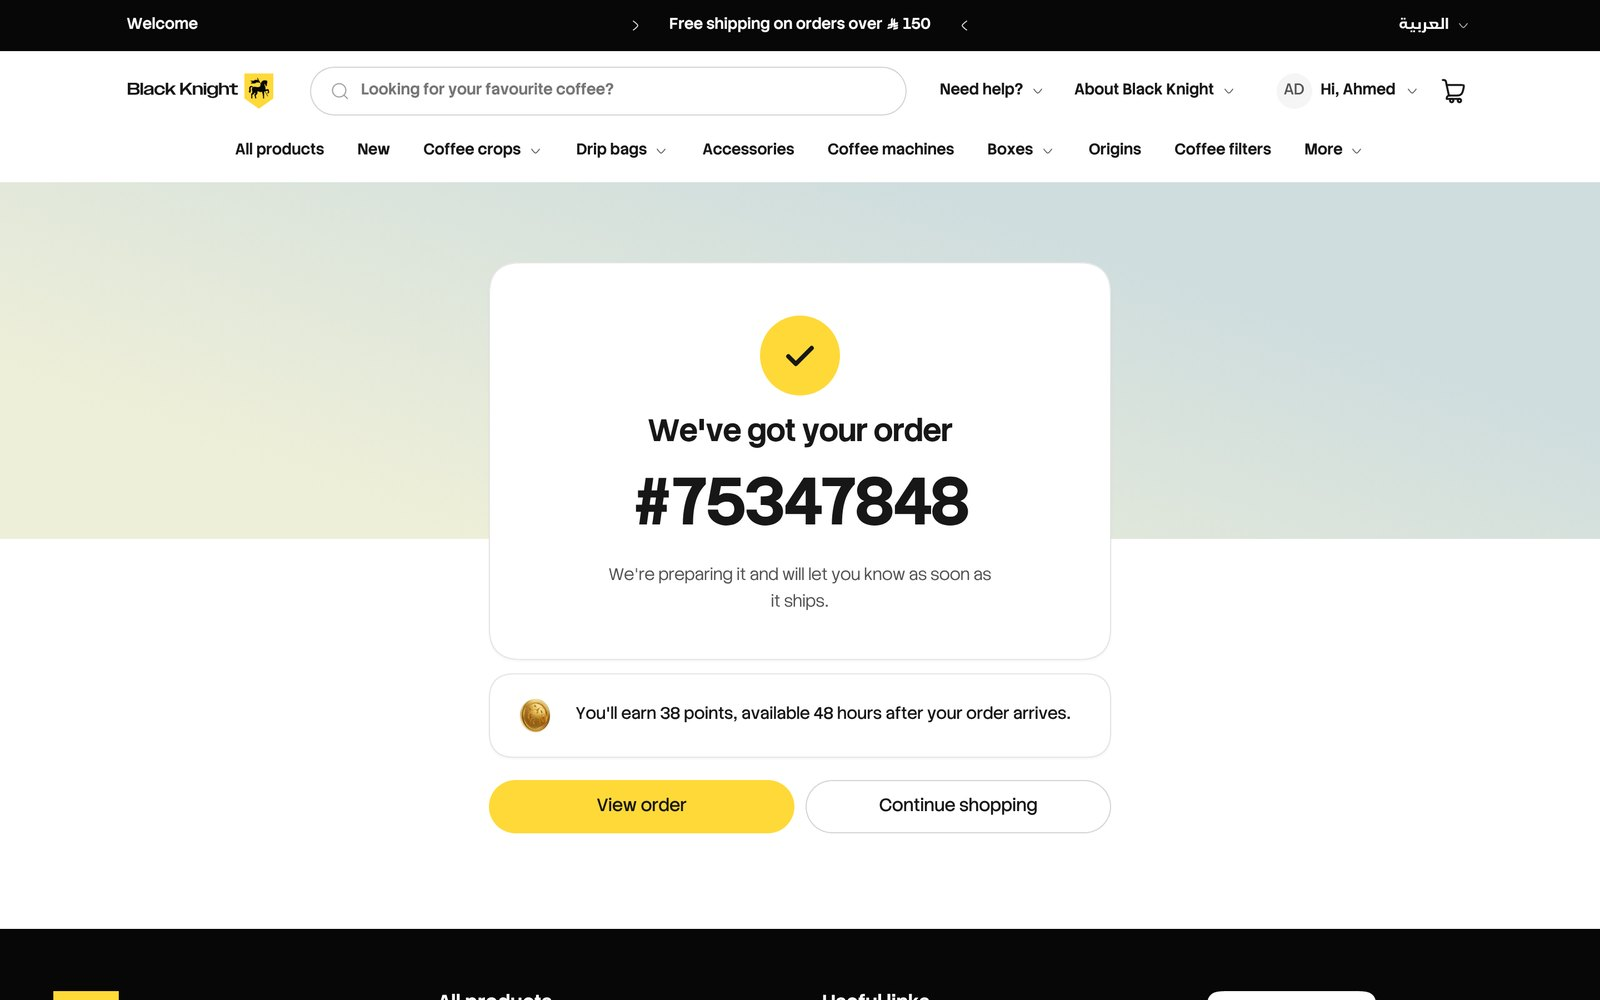
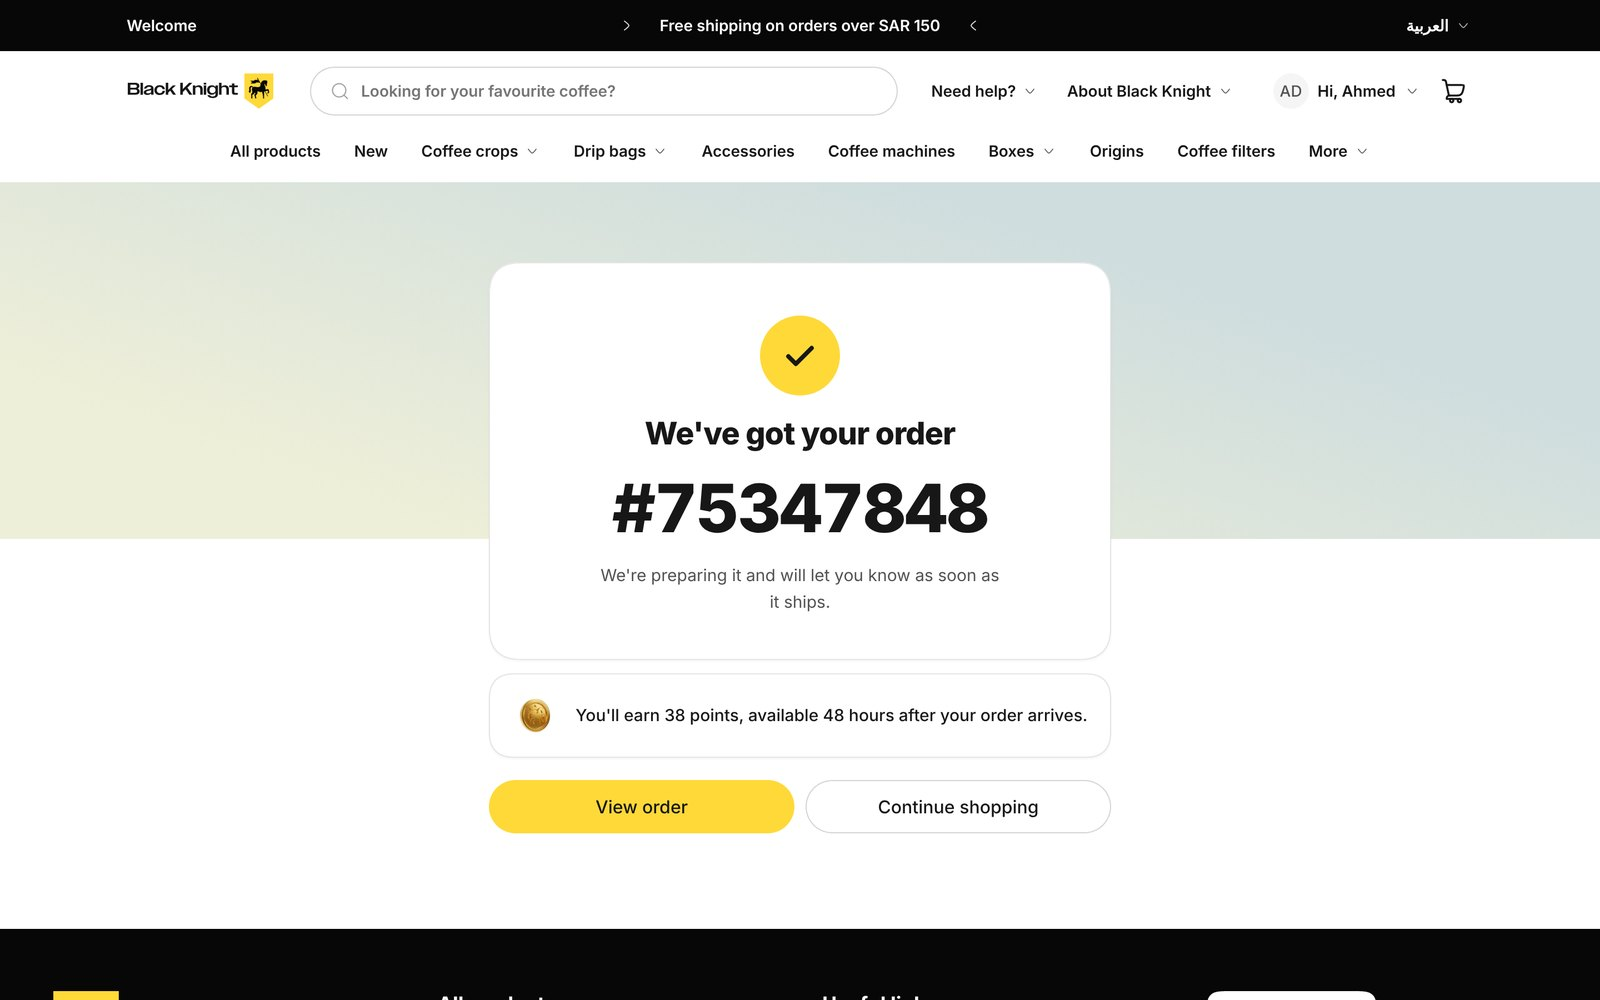
Add Kadr, REKO and the Black Knight console; Inter for English
- Black Knight: storefront screens use Inter in English, icons restored,
  and seven console screens (overview, orders, order, products, product,
  discount codes, reports) translated to English, left to right.
- Kadr: ten screens from the Kadr app flow canvas, web and mobile.
- REKO: ten screens from the REKO design canvas.
- Maknoon: new home screen from the latest Figma file.

Claude-Session: https://claude.ai/code/session_01B5ya1KUbNpwCd5gLMSSR59

diff --git a/works.js b/works.js
@@ -14,7 +14,7 @@ window.WORKS = [
     desc: 'One design language for a specialty coffee storefront, an app and an operations console.',
     platforms: ['web', 'mobile'], web: IMG + 'bn-home.jpg',
     role: 'Product Designer', year: '2026', platform: 'Web, iOS & Android',
-    tools: ['Figma', 'Claude'], tech: ['Design system and tokens', 'Hugeicons', 'React prototypes', 'Arabic and English (RTL and LTR)'],
+    tools: ['Figma', 'Claude'], tech: ['Design system and tokens', 'Hugeicons', 'React prototypes', 'Arabic and English (RTL and LTR)', 'Typeface: BK (Arabic), Inter (English)'],
     overview: 'Black Knight is a Saudi specialty coffee roastery in Al Khobar. It sources coffee from more than 20 countries, roasts it in a 5,280 m² factory, one of the largest specialty coffee factories in Saudi Arabia, and sells single origins, signature blends, drip bags and Saudi Arabic coffee to homes, cafés and retailers. I designed one design language for its online store, app and operations console, Arabic first and in English.',
     process: 'Every flow was mapped state by state before handoff. Checkout alone covers 49 states, from loading an address and a rejected discount code to a declined instalment plan and an expired session, so engineering never has to guess what a screen does. Each flow also has a "case stories" board that walks through its states frame by frame on desktop and phone.',
     solution: 'One design system, built on the brand\'s own typeface, carries the store from the home page to the account. The product page leads with the coffee, the basket and checkout make delivery, payment and points clear before you pay, and the account keeps every order, point and address in one place.',
@@ -28,7 +28,14 @@ window.WORKS = [
       { src: IMG + 'bn-orders.jpg', title: 'My orders', desc: 'Each order says what it is waiting for. Unpaid orders and items added later carry a clear amount due and a pay button.' },
       { src: IMG + 'bn-points.jpg', title: 'My points', desc: 'The balance and what it is worth in riyals, then every point earned, pending, redeemed, returned or expired, with the order it came from.' },
       { src: IMG + 'bn-wishlist.jpg', title: 'Wishlist', desc: 'Saved coffees with their rating, price and origin, one tap from the basket.' },
-      { src: IMG + 'bn-addresses.jpg', title: 'Addresses', desc: 'Saved addresses across the Gulf with a default, and a plain note when an address is missing something it needs before it can be used.' }
+      { src: IMG + 'bn-addresses.jpg', title: 'Addresses', desc: 'Saved addresses across the Gulf with a default, and a plain note when an address is missing something it needs before it can be used.' },
+      { src: IMG + 'bnc-overview.jpg', title: 'Console · Overview', desc: 'The operations console opens on the day: sales, orders, customers and average order value against the previous period, what needs attention (new orders, approvals, low stock, reviews) and sales by channel.' },
+      { src: IMG + 'bnc-orders.jpg', title: 'Console · Orders', desc: 'Every order with its channel, payment, delivery and status, in eight tabs from new to returned, searchable by order number, customer, mobile or tracking number.' },
+      { src: IMG + 'bnc-order.jpg', title: 'Console · Order detail', desc: 'Items with their SKU and weight, what is inside each box, the payment summary, the customer and the order\'s activity, with preparing, duplicating and cancelling one click away.' },
+      { src: IMG + 'bnc-products.jpg', title: 'Console · Products', desc: 'The catalogue with type, category, price, stock, status and labels, filtered by origin, availability and approval.' },
+      { src: IMG + 'bnc-product.jpg', title: 'Console · Product', desc: 'One coffee\'s record: sales, and every specification (origin, process, region, variety, body, notes, altitude) with whether it shows in the store.' },
+      { src: IMG + 'bnc-codes.jpg', title: 'Console · Discount codes', desc: 'Every code with its discount, usage, period and status, including affiliate codes and campaign codes like National Day and Ramadan.' },
+      { src: IMG + 'bnc-reports.jpg', title: 'Console · Reports', desc: 'Sales over time grouped by day, week or month, with refunds, discounts, delivery and VAT broken out for each day.' }
     ],
     results: [{ v: '20+', l: 'countries of origin' }, { v: '5,280 m²', l: 'roasting factory in Al Khobar' }, { v: '49', l: 'checkout states designed' }]
   },
@@ -81,6 +88,51 @@ window.WORKS = [
       { phone: true, src: IMG + 'mk-zakat.jpg', title: 'Zakat calculator', desc: 'Nisab by gold or silver, the assets a full year has passed on, and 2.5% worked out in plain, tested code.' }
     ],
     results: [{ v: '6,236', l: 'ayat, verified against the source' }, { v: '0', l: 'accounts, ads or trackers' }, { v: '4', l: 'schools of fiqh, side by side' }]
+  },
+  {
+    slug: 'kadr', title: 'Kadr', tags: 'Web · Desktop · iOS · Android',
+    desc: 'A video editor for everyday creators, with AI tools that run on credits and a full timeline when you need it.',
+    platforms: ['web', 'mobile'], web: IMG + 'kd-editor.jpg',
+    role: 'Founder · Product design', year: '2026', platform: 'Web, macOS, Windows, iOS & Android',
+    tools: ['Claude', 'Claude Code'], tech: ['Kadr design system (tokens and components)', 'Inter, Geist Mono and Readex Pro', 'English, Arabic and Spanish'],
+    overview: 'Kadr is a video editor for everyday creators. Projects sync across desktop, web and phone, and AI tools such as auto captions, script to video, translation and background removal sit next to a full multi-track timeline.',
+    process: 'Every screen type in a leading mobile editor was mapped and redesigned, then carried to web and desktop with shared components: a top bar, a tool rail, an inspector and the timeline. AI actions always show their credit cost before you run them, and tools that run on the device say so.',
+    solution: 'A simple editor for quick edits, an advanced mode with edit, colour, audio and deliver pages for detailed work, and templates people can remix. Arabic is designed right to left, and the waiting list, store pages and app are in English, Arabic and Spanish.',
+    screens: [
+      { src: IMG + 'kd-projects.jpg', title: 'Projects', desc: 'Quick AI tools with their credit cost, and recent drafts synced across desktop, web and phone.' },
+      { src: IMG + 'kd-editor.jpg', title: 'Editor', desc: 'Media, the preview and an inspector for the selected text, above a timeline with text, stickers, captions, video and audio tracks.' },
+      { src: IMG + 'kd-captions.jpg', title: 'Auto captions', desc: 'Speech becomes timed captions in 130+ languages. The dialog says what it will cost and what your balance will be before you confirm.' },
+      { src: IMG + 'kd-color.jpg', title: 'Advanced · Color', desc: 'Node-based grading with lift, gamma, gain and offset wheels and live scopes, for when a quick filter is not enough.' },
+      { src: IMG + 'kd-script.jpg', title: 'Script to video', desc: 'Describe the video, pick a length, voice and look, and edit the scene-by-scene script before anything is generated.' },
+      { src: IMG + 'kd-translate.jpg', title: 'Translate video', desc: 'Translate a video\'s speech and captions into another language, with each task\'s progress listed beside it.' },
+      { phone: true, src: IMG + 'kd-tools.jpg', title: 'Mobile · All tools', desc: 'Every tool on one screen, from photo editing and auto cut to teleprompter and upscale, with Pro tools marked.' },
+      { phone: true, src: IMG + 'kd-caption-style.jpg', title: 'Mobile · Caption style', desc: 'Highlight, karaoke and pop styles, highlight colour, size and position, applied to one caption or all of them.' },
+      { phone: true, src: IMG + 'kd-teleprompter.jpg', title: 'Mobile · Teleprompter', desc: 'Your script scrolls as you speak and pauses when you stop, with speed and text size under your thumb.' },
+      { phone: true, src: IMG + 'kd-templates.jpg', title: 'Mobile · Template feed', desc: 'Browse templates full screen, see what each uses, and swap in your own clips in one tap.' }
+    ]
+  },
+  {
+    slug: 'reko', title: 'REKO', tags: 'iOS · Android · English & Arabic',
+    desc: 'Your words. Your books. Ten minutes a day. A vocabulary app for grown-ups.',
+    platforms: ['mobile'], mobile: IMG + 'rk-home.jpg',
+    phones: [IMG + 'rk-flashcard.jpg', IMG + 'rk-home.jpg', IMG + 'rk-reader.jpg'],
+    role: 'Product Designer', year: '2026', platform: 'iOS & Android',
+    tools: ['Claude'], tech: ['FSRS spaced repetition', 'Baloo Bhaijaan 2 and Rubik', 'English and Arabic (RTL)', 'Light and dark themes'],
+    overview: 'REKO is a vocabulary app for grown-ups who already speak a language and want the words they actually meet, from their own uploads or from courses built on its database. Kami, the owl, is the one fixed character.',
+    process: 'Each language gets its own colour so two never blur together. Lessons favour retrieval over recognition: flashcards with honest next-review dates, typed cloze, reverse cards and writing your own sentence. Streaks forgive a missed day, and there is no score and no shame.',
+    solution: 'Add words by typing, pasting a list, importing a CSV, photographing text, uploading a book or pasting a link. Read your own books with new words tinted, tap a word to save it with the sentence it came from, and review in ten minutes a day.',
+    screens: [
+      { phone: true, src: IMG + 'rk-onboarding.jpg', title: 'Meet Kami', desc: 'Two questions and you start: the language the app speaks, then what you want to learn.' },
+      { phone: true, src: IMG + 'rk-home.jpg', title: 'Home', desc: 'Today\'s path through new words, listening and grammar, with reviews due and your streak at the top.' },
+      { phone: true, src: IMG + 'rk-flashcard.jpg', title: 'Flashcard', desc: 'The word in the sentence you met it in. Again, hard, good and easy show the real date of the next review.' },
+      { phone: true, src: IMG + 'rk-cloze.jpg', title: 'Fill the gap', desc: 'Type the missing word, so you retrieve it rather than recognise it. Small typos count as almost, not wrong.' },
+      { phone: true, src: IMG + 'rk-use-it.jpg', title: 'Use it', desc: 'Write your own sentence and get optional feedback that suggests a more natural way to say it.' },
+      { phone: true, src: IMG + 'rk-reader.jpg', title: 'Book reader', desc: 'Read your own books with new words tinted, learning words underlined and known words left plain.' },
+      { phone: true, src: IMG + 'rk-word-tap.jpg', title: 'Tap a word', desc: 'See what it means here, in English and Arabic, and save it with the sentence it came from.' },
+      { phone: true, src: IMG + 'rk-word-card.jpg', title: 'Word card', desc: 'Where you met the word, what it goes with, false friends and when it is next due.' },
+      { phone: true, src: IMG + 'rk-progress.jpg', title: 'Progress', desc: 'Words known, retention, time this week, how much of the 3,000 most common words you know, and what is coming up.' },
+      { phone: true, src: IMG + 'rk-done.jpg', title: 'Done for today', desc: 'What you reviewed and learned, your recall and streak, and the choice to stop or do five more minutes.' }
+    ]
   },
   {
     slug: 'diwan-plus', title: 'Diwan+', tags: 'Web app · English & Arabic',
